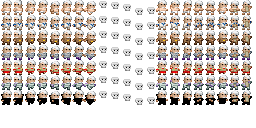
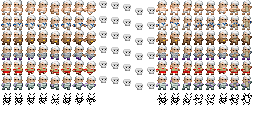
Fixed errors with Conjurer's appearance

Changed region(s): [[0.0, 0.6875, 1.0, 0.8438]]

diff --git a/core/src/main/java/com/trashboxbobylev/summoningpixeldungeon/windows/WndStartGame.java b/core/src/main/java/com/trashboxbobylev/summoningpixeldungeon/windows/WndStartGame.java
@@ -345,7 +345,7 @@ public class WndStartGame extends Window {
 							break;
                         case CONJURER:
                             heroItem.icon(new ItemSprite(ItemSpriteSheet.FROGGIT_STAFF, null));
-                            heroLoadout.icon(new ItemSprite(ItemSpriteSheet.SPELL_HOLDER, null));
+                            heroLoadout.icon(new ItemSprite(ItemSpriteSheet.ARMOR_CONJURER, null));
                             heroMisc.icon(new Image(Assets.BUFFS_LARGE, 112, 32, 16, 16 ));
                             break;
 					}
